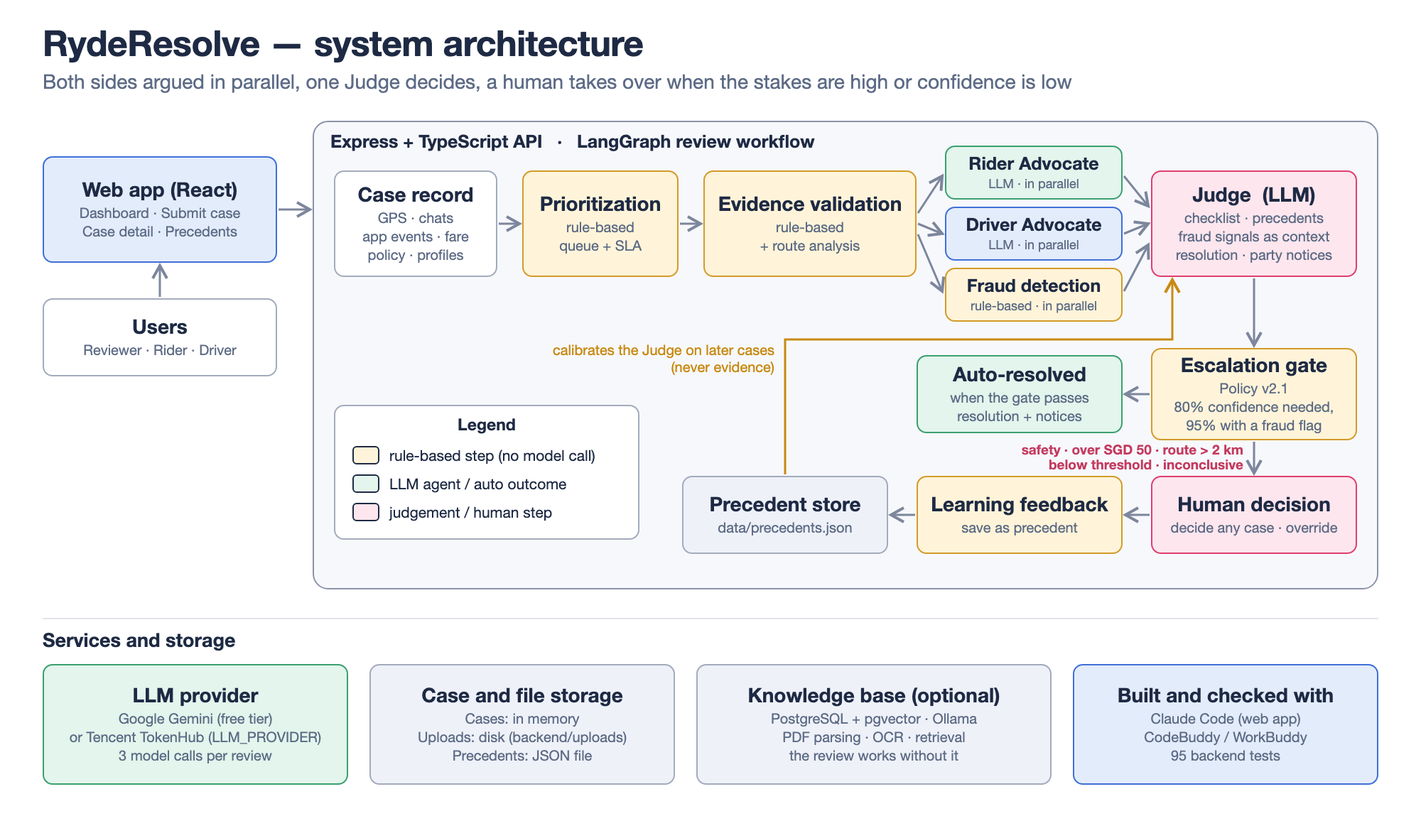
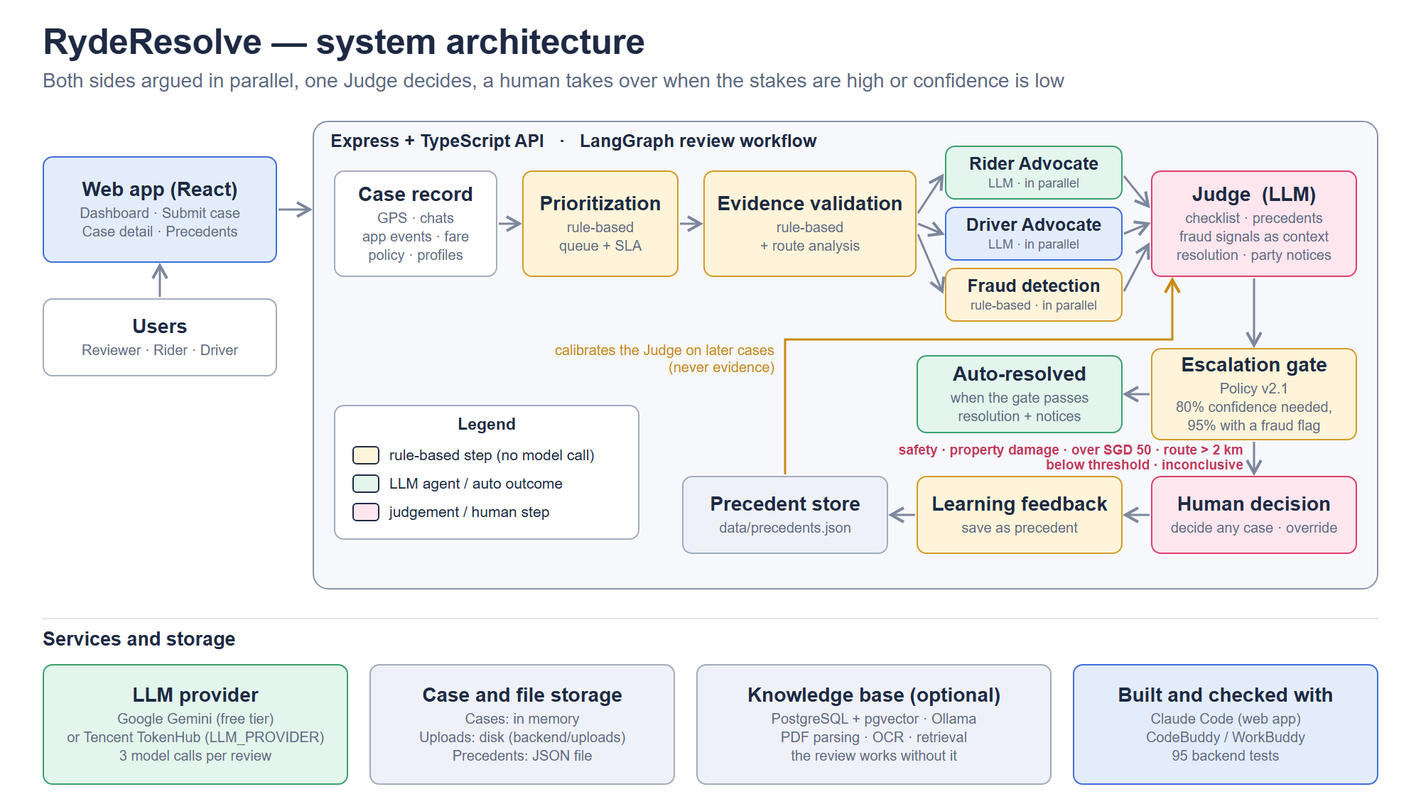
Align report and app with Policy v2.1

diff --git a/dispute-review-agent/frontend/src/App.tsx b/dispute-review-agent/frontend/src/App.tsx
@@ -1,15 +1,26 @@
+import { lazy, Suspense } from 'react';
 import { QueryClient, QueryClientProvider } from '@tanstack/react-query';
 import { BrowserRouter, Route } from 'react-router-dom';
+import { Loader2 } from 'lucide-react';
 import { Toaster } from "@/components/ui/sonner";
 import { TooltipProvider } from "@/components/ui/tooltip";
 import { AnimatedRoutes } from "@/components/AnimatedRoutes";
 import { PageTransition } from "@/components/PageTransition";
 import { Layout } from "@/components/Layout";
-import Dashboard from "./pages/Dashboard";
-import SubmitCase from "./pages/SubmitCase";
-import CaseDetail from "./pages/CaseDetail";
-import Precedents from "./pages/Precedents";
-import NotFound from "./pages/NotFound";
+
+const Dashboard = lazy(() => import('./pages/Dashboard'));
+const SubmitCase = lazy(() => import('./pages/SubmitCase'));
+const CaseDetail = lazy(() => import('./pages/CaseDetail'));
+const Precedents = lazy(() => import('./pages/Precedents'));
+const NotFound = lazy(() => import('./pages/NotFound'));
+
+function PageLoader() {
+  return (
+    <div className="flex min-h-[50vh] items-center justify-center" role="status" aria-label="Loading page">
+      <Loader2 className="h-6 w-6 animate-spin text-primary" />
+    </div>
+  );
+}
 
 const queryClient = new QueryClient({
   defaultOptions: {
@@ -33,14 +44,16 @@ function App() {
         <Toaster />
         <BrowserRouter>
           <Layout>
-            <AnimatedRoutes>
-              <Route path="/" data-genie-title="Dashboard" data-genie-key="Dashboard" element={<PageTransition transition="slide-up"><Dashboard /></PageTransition>} />
-              <Route path="/submit" data-genie-title="Submit case" data-genie-key="Submit" element={<PageTransition transition="slide-up"><SubmitCase /></PageTransition>} />
-              <Route path="/cases/:id" data-genie-title="Case details" data-genie-key="CaseDetail" element={<PageTransition transition="slide-up"><CaseDetail /></PageTransition>} />
-              <Route path="/precedents" data-genie-title="Precedents" data-genie-key="Precedents" element={<PageTransition transition="slide-up"><Precedents /></PageTransition>} />
-              {/* ADD ALL CUSTOM ROUTES ABOVE THE CATCH-ALL "*" ROUTE */}
-              <Route path="*" data-genie-key="NotFound" data-genie-title="Not Found" element={<PageTransition transition="fade"><NotFound /></PageTransition>} />
-            </AnimatedRoutes>
+            <Suspense fallback={<PageLoader />}>
+              <AnimatedRoutes>
+                <Route path="/" data-genie-title="Dashboard" data-genie-key="Dashboard" element={<PageTransition transition="slide-up"><Dashboard /></PageTransition>} />
+                <Route path="/submit" data-genie-title="Submit case" data-genie-key="Submit" element={<PageTransition transition="slide-up"><SubmitCase /></PageTransition>} />
+                <Route path="/cases/:id" data-genie-title="Case details" data-genie-key="CaseDetail" element={<PageTransition transition="slide-up"><CaseDetail /></PageTransition>} />
+                <Route path="/precedents" data-genie-title="Precedents" data-genie-key="Precedents" element={<PageTransition transition="slide-up"><Precedents /></PageTransition>} />
+                {/* ADD ALL CUSTOM ROUTES ABOVE THE CATCH-ALL "*" ROUTE */}
+                <Route path="*" data-genie-key="NotFound" data-genie-title="Not Found" element={<PageTransition transition="fade"><NotFound /></PageTransition>} />
+              </AnimatedRoutes>
+            </Suspense>
           </Layout>
         </BrowserRouter>
       </TooltipProvider>

diff --git a/dispute-review-agent/backend/src/modules/dispute/agents/escalation-agent.ts b/dispute-review-agent/backend/src/modules/dispute/agents/escalation-agent.ts
@@ -7,13 +7,13 @@ import {
 } from './dataset';
 import { RYDE_POLICY_V2_1 } from './policy';
 
-/** Below this Judge confidence, the case must be decided by a human reviewer. */
-export const ESCALATION_THRESHOLD = 60;
+/** Fallback threshold for legacy inputs when no Policy v2.1 case data is available. */
+export const DEFAULT_ESCALATION_THRESHOLD = 60;
 
 export function runEscalationAgent<T extends Pick<JudgeReview, 'mode' | 'recommendation' | 'confidenceScore'>>(
   review: T,
   input?: AgentInput,
-  defaultThreshold = ESCALATION_THRESHOLD
+  defaultThreshold = DEFAULT_ESCALATION_THRESHOLD
 ): EscalationDecision {
   const triggers: string[] = [];
   let threshold = defaultThreshold;
@@ -30,6 +30,9 @@ export function runEscalationAgent<T extends Pick<JudgeReview, 'mode' | 'recomme
 
       if (type === 'safety_accident') {
         triggers.push('Safety incidents always require human review under Policy v2.1 §5.');
+      } else if (type === 'property_damage') {
+        threshold = 100;
+        triggers.push('Disputed property-damage claims always require human review under Policy v2.1 §4.');
       } else if (isLegacyRouteDeviationDataset(input)) {
         const deviationKm = input.trip_data.actual_distance_km - input.recommended_route.distance_km;
         threshold = 80;

diff --git a/dispute-review-agent/backend/src/__tests__/policy-v2.1.test.ts b/dispute-review-agent/backend/src/__tests__/policy-v2.1.test.ts
@@ -10,6 +10,7 @@ import { runEscalationAgent } from '../modules/dispute/agents/escalation-agent';
 import { assessStructuredPolicy, RYDE_POLICY_V2_1 } from '../modules/dispute/agents/policy';
 import { formatCaseContext } from '../modules/dispute/agents/shared';
 import { datasetToCreateDTO } from '../modules/dispute/import-dataset';
+import { disputeStore } from '../modules/dispute/store';
 
 const root = path.resolve(__dirname, '../../../../reference');
 
@@ -86,6 +87,13 @@ test('Policy v2.1 escalation thresholds are applied to the supplied samples', ()
   expect(runEscalationAgent({ ...completedReview, confidenceScore: 94 }, noShow)).toMatchObject({
     needsHuman: true, confidenceThreshold: 95,
   });
+  const propertyDamage = runEscalationAgent(completedReview, {
+    ...disputeStore.getById('case-003')!, type: 'property_damage',
+  });
+  expect(propertyDamage).toMatchObject({ needsHuman: true, confidenceThreshold: 100 });
+  expect(propertyDamage.triggers).toEqual(expect.arrayContaining([
+    expect.stringContaining('property-damage'),
+  ]));
 });
 
 test('the new route and fare samples can be imported into dashboard cases', () => {

diff --git a/report/architecture.html b/report/architecture.html
@@ -107,7 +107,7 @@
     <path d="M1105 668 V478 H1650 V394" stroke="#c88a12" stroke-width="3" fill="none" marker-end="url(#g)"/>
     <text x="1090" y="500" font-size="20" fill="#c88a12" text-anchor="end" font-family="Helvetica Neue, Helvetica, Arial, sans-serif">calibrates the Judge on later cases</text>
     <text x="1090" y="524" font-size="20" fill="#c88a12" text-anchor="end" font-family="Helvetica Neue, Helvetica, Arial, sans-serif">(never evidence)</text>
-    <text x="1750" y="640" font-size="19" font-weight="700" fill="#c43a5f" text-anchor="end" font-family="Helvetica Neue, Helvetica, Arial, sans-serif">safety · over SGD 50 · route &gt; 2 km</text>
+    <text x="1750" y="640" font-size="19" font-weight="700" fill="#c43a5f" text-anchor="end" font-family="Helvetica Neue, Helvetica, Arial, sans-serif">safety · property damage · over SGD 50 · route &gt; 2 km</text>
     <text x="1750" y="661" font-size="19" font-weight="700" fill="#c43a5f" text-anchor="end" font-family="Helvetica Neue, Helvetica, Arial, sans-serif">below threshold · inconclusive</text>
   </svg>
 

diff --git a/dispute-review-agent/backend/src/__tests__/agents.test.ts b/dispute-review-agent/backend/src/__tests__/agents.test.ts
@@ -34,8 +34,8 @@ const advocate = {
     sourceRefs: ['/gps_telemetry/4'],
   }],
   policyArguments: [{
-    argument: 'Compare elapsed wait with eight-minute threshold.',
-    sourceRefs: ['/cancellation_policy/no_show_threshold_min'],
+    argument: 'Compare elapsed wait with the five-minute Policy v2.1 threshold.',
+    sourceRefs: ['/applicable_policy/no_show/free_wait_time_min'],
   }],
   missingEvidence: ['Exact basis for wait start.'],
   requestedOutcome: 'Decide using the supplied policy.', confidenceScore: 60,
@@ -46,7 +46,7 @@ const judge = {
   driverPerspective: 'Driver has arrival records.',
   passengerPerspective: 'Rider disputes arrival.',
   evidenceAnalysis: 'Compare timestamps.',
-  policyReferences: ['Eight-minute no-show threshold'],
+  policyReferences: ['Policy v2.1 five-minute free-wait threshold'],
   recommendation: 'inconclusive',
   recommendationReasoning: 'Wait-start basis needs clarification.',
   suggestedActions: ['No adjustment pending clarification.'],

diff --git a/dispute-review-agent/backend/src/__tests__/fraud.test.ts b/dispute-review-agent/backend/src/__tests__/fraud.test.ts
@@ -36,8 +36,8 @@ const advocate = {
     sourceRefs: ['/gps_telemetry/4'],
   }],
   policyArguments: [{
-    argument: 'Compare elapsed wait with eight-minute threshold.',
-    sourceRefs: ['/cancellation_policy/no_show_threshold_min'],
+    argument: 'Compare elapsed wait with the five-minute Policy v2.1 threshold.',
+    sourceRefs: ['/applicable_policy/no_show/free_wait_time_min'],
   }],
   missingEvidence: ['Exact basis for wait start.'],
   requestedOutcome: 'Decide using the supplied policy.', confidenceScore: 60,
@@ -49,7 +49,7 @@ const judge = {
   driverPerspective: 'Driver has arrival records.',
   passengerPerspective: 'Rider disputes arrival.',
   evidenceAnalysis: 'Compare timestamps.',
-  policyReferences: ['Eight-minute no-show threshold'],
+  policyReferences: ['Policy v2.1 five-minute free-wait threshold'],
   recommendation: 'inconclusive',
   recommendationReasoning: 'Wait-start basis needs clarification.',
   suggestedActions: ['No adjustment pending clarification.'],

diff --git a/dispute-review-agent/frontend/src/components/Layout.tsx b/dispute-review-agent/frontend/src/components/Layout.tsx
@@ -23,9 +23,10 @@ export function Layout({ children }: LayoutProps) {
     <div className="flex h-screen overflow-hidden">
       {/* Sidebar */}
       <aside className="relative isolate overflow-hidden w-14 md:w-52 shrink-0 border-r border-sidebar-border bg-sidebar text-sidebar-foreground flex flex-col">
-        {/* Logo */}
+        {/* Product name only; keep the theme colours without using the Ryde mark. */}
         <div className="px-2 md:px-4 pt-5 pb-4">
-          <img src="/ryde-logo.png" alt="Ryde" className="h-6 md:h-8 w-auto mx-auto md:mx-0 object-contain object-left" />
+          <span className="hidden md:block text-lg font-bold tracking-tight text-primary">RydeResolve</span>
+          <span className="md:hidden block text-center text-lg font-bold text-primary" aria-label="RydeResolve">R</span>
         </div>
 
         {/* Navigation: icon tiles make a short list read as a deliberate menu */}

diff --git a/dispute-review-agent/backend/src/modules/dispute/agents/learning-feedback-agent.ts b/dispute-review-agent/backend/src/modules/dispute/agents/learning-feedback-agent.ts
@@ -22,7 +22,10 @@ function feedbackText(dispute: DisputeCase): string {
   ].join('\n');
 }
 
-/** Stores a reviewed outcome as case-scoped knowledge. This is RAG feedback, not model fine-tuning. */
+/**
+ * Optionally indexes a reviewed outcome for semantic search and audit. The Judge's
+ * active learning loop uses the separate JSON precedent store; neither path fine-tunes a model.
+ */
 export async function runLearningFeedbackAgent(dispute: DisputeCase): Promise<LearningFeedback> {
   const recordedAt = new Date().toISOString();
   if (!dispute.humanOverride) {

diff --git a/dispute-review-agent/backend/src/modules/dispute/agents/checklist.ts b/dispute-review-agent/backend/src/modules/dispute/agents/checklist.ts
@@ -3,8 +3,8 @@ import type { AgentInput } from './contracts';
 
 /**
  * Points the Judge must address, by ID, before ruling. Each answer says what the
- * record shows and whether sources conflict, so known weak spots (such as the
- * DISP-002 wait-start ambiguity) are covered on every review, not by chance.
+ * record shows and whether sources conflict, so known weak spots such as arrival,
+ * location, contact attempts and timestamp inconsistencies are covered every time.
  */
 export interface ChecklistItem {
   id: string;

diff --git a/report/SUBMISSION.md b/report/SUBMISSION.md
@@ -47,7 +47,7 @@ Before ruling, a human reviewer must manually cross-reference GPS telemetry, cha
 2. **Builds both sides of the case in parallel** — the Rider Advocate and Driver Advocate independently gather evidence from the same record and argue their party's position, each citing specific JSON-pointer paths.
 3. **Flags bad-faith risk without prejudging** — a Fraud & Bad-Faith Detection Agent turns account risk flags, dispute history and account age into risk signals that the Judge weighs as context, never as evidence.
 4. **Adjudicates with a mandatory checklist** — the Judge must answer every required checklist item for the dispute type before ruling; a ruling that skips an item is rejected.
-5. **Escalates by the stakes** — under Policy v2.1, safety incidents, disputes over SGD 50 and route deviations over 2 km always go to a human reviewer, with the full agent transcript and checklist. Otherwise the Judge needs 80% confidence (no minimum under SGD 10), or 95% when either party has a fraud flag; an inconclusive ruling also goes to a human.
+5. **Escalates by the stakes** — under Policy v2.1, safety incidents, disputed property-damage claims, disputes over SGD 50 and route deviations over 2 km always go to a human reviewer, with the full agent transcript and checklist. Otherwise the Judge needs 80% confidence (no minimum under SGD 10), or 95% when either party has a fraud flag; an inconclusive ruling also goes to a human.
 6. **Learns from human decisions** — when a reviewer overrides the AI and marks "use as precedent", the decision is saved and shown to the Judge as few-shot calibration examples for future cases of the same type — without model fine-tuning.
 
 ---
@@ -81,9 +81,9 @@ Before ruling, a human reviewer must manually cross-reference GPS telemetry, cha
 - **Driver Advocate** — mirrors the Rider Advocate for the driver's perspective.
 - **Fraud & Bad-Faith Detection Agent** — runs alongside the advocates without a model call. From account risk flags, dispute rate, the share of past disputes decided against each party and account age, it produces risk signals for the Judge. They are context, never evidence: they cannot be cited and must not decide a ruling on their own.
 - **Judge** — weighs both submissions against the original record (advocate arguments are not additional evidence), answers a mandatory checklist, consults up to 3 human precedents of the same dispute type, weighs the fraud risk signals as context, and issues a structured resolution (action, amount, currency, recipient, basis) capped at the disputed charge. Also writes plain-language party notices.
-- **Escalation Agent** — applies Policy v2.1: safety incidents, disputes over SGD 50 and route deviations over 2 km always go to a human reviewer. Otherwise the Judge needs 80% confidence (no minimum under SGD 10), or 95% when either party has a fraud flag. An inconclusive ruling also goes to a human. Everything else auto-resolves.
+- **Escalation Agent** — applies Policy v2.1: safety incidents, disputed property-damage claims, disputes over SGD 50 and route deviations over 2 km always go to a human reviewer. Otherwise the Judge needs 80% confidence (no minimum under SGD 10), or 95% when either party has a fraud flag. An inconclusive ruling also goes to a human. Everything else auto-resolves.
 - **Human Decision** — a reviewer can decide any case at any time, regardless of whether the AI has reviewed it. The decision overrides the AI, and can be revised or withdrawn.
-- **Learning Feedback Agent** — when a human decision is marked "use as precedent", it is saved to the precedent store, and the Judge sees it as a few-shot calibration example for future cases of the same type. The decision is also indexed in the knowledge base for search. No model fine-tuning is involved.
+- **Learning Feedback Agent** — every human override stays on the case and can be indexed in the optional knowledge base for search. When the reviewer also marks it "use as precedent", it is saved to the JSON precedent store and shown to the Judge as a few-shot calibration example. No model fine-tuning is involved.
 
 ### 4.2 Technical Architecture
 
@@ -145,7 +145,7 @@ Advocate Advocate Detection
          │
     ┌────┴──────────────────────┐
     │                           │
- confidence meets the       safety, over SGD 50,
+ confidence meets the       safety, property damage,
  threshold for the stakes   route deviation over 2 km,
  (80%; none under SGD 10;   below the threshold,
  95% with a fraud flag)     or inconclusive
@@ -217,9 +217,9 @@ All claims below are supported by the repository or handbook. No results are inv
 | Manual dispute resolution takes **24–72 hours** per dispute | Handbook V2.0, page 4 |
 | Manual resolution causes **inconsistent rulings** — different agents reach different conclusions on similar cases | Handbook V2.0, page 4 |
 | Manual resolution incurs **high operational costs** — millions spent annually on human support hours | Handbook V2.0, page 4 |
-| **Policy v2.1 escalation rules** govern auto-resolution vs. human review: safety, over SGD 50 and route deviations over 2 km always go to a human; otherwise 80% confidence (none under SGD 10), or 95% with a fraud flag | `escalation-agent.ts`, `policy.ts` |
+| **Policy v2.1 escalation rules** govern auto-resolution vs. human review: safety, disputed property damage, values over SGD 50 and route deviations over 2 km always go to a human; otherwise 80% confidence (none under SGD 10), or 95% with a fraud flag | `escalation-agent.ts`, `policy.ts` |
 | A single AI review makes **3 LLM calls** (Rider Advocate + Driver Advocate + Judge); prioritization, evidence validation, fraud detection and escalation make none | `agents/README.md` and `orchestrator.ts` |
-| The Gemini free tier allows ~20 requests per model per day, so a review takes 15 s – 3 min | `README.md`, Notes section |
+| Each successful AI review makes three model calls; latency and quota depend on the configured Gemini or Tencent TokenHub account | `llm-chat.ts`; `orchestrator.ts` |
 | The Prioritization Agent assigns target response times from **15 min (urgent) to 24 h (low)** without an LLM call | `prioritization-agent.ts`: `responseMinutes` |
 | The Judge consults up to **3 recent same-type precedents** to calibrate its standards | `precedents.ts`: `select()` with `limit = env.PRECEDENT_EXAMPLES` |
 | Resolution amounts are **capped at the disputed charge** (refunds) or 2× (compensation) | `judge.ts`: `disputedAmount()` and `COMPENSATION_CAP_MULTIPLIER` |
@@ -365,7 +365,7 @@ Every point below is implemented in the repository; the source is given in brack
 | Principle | How the system implements it |
 |---|---|
 | **A human can always decide** | A reviewer can decide any case at any time, whether or not the AI has reviewed it. The decision can be revised or withdrawn, takes priority over the AI, and is not overturned by a re-review. [`docs/product/features.md`; `POST/DELETE /api/disputes/:id/override`] |
-| **High stakes and low confidence go to a person** | Under Policy v2.1, safety incidents, disputes over SGD 50 and route deviations over 2 km always go to a human. Otherwise the Judge needs 80% confidence (none under SGD 10), or 95% when a party has a fraud flag; an inconclusive ruling also goes to a human. [`escalation-agent.ts`] |
+| **High stakes and low confidence go to a person** | Under Policy v2.1, safety incidents, disputed property-damage claims, disputes over SGD 50 and route deviations over 2 km always go to a human. Otherwise the Judge needs 80% confidence (none under SGD 10), or 95% when a party has a fraud flag; an inconclusive ruling also goes to a human. [`escalation-agent.ts`] |
 | **Nothing is sent before a human decides** | For escalated cases the plain-language notices to the rider and the driver are shown as drafts ("Draft — held until a human reviewer decides"). After a human decision, the AI's draft is marked "Superseded by the human decision — rewrite before sending". Only notices for cases where the AI ruling stands are marked "Ready to send". [`PartyNoticesCard` in `AgentReview.tsx`] |
 | **No automatic money movement** | A resolution is a recommendation stored on the case. The codebase contains no payment integration. [searched `backend/src`] |
 | **Bounded outcomes** | A refund cannot exceed the disputed charge; compensation is capped at 2× the charge; an inconclusive ruling cannot move money. [`judge.ts`] |
@@ -388,13 +388,13 @@ This is a hackathon prototype. The limits below are stated plainly so that the d
 - **Structured datasets exist for three dispute types.** Route deviation (DISP-003, plus the DISP-001 document), no-show charge (DISP-002, plus ten test fixtures) and fare dispute (the Document 1 sample) have datasets and tests. Property damage and safety accident are in the data model and have Judge checklists, but no sample dataset yet.
 - **Uploaded photos and PDFs are stored and shown, but the agents do not read their contents.** Image analysis is a handbook stretch goal and is not implemented. Uploaded files appear as evidence in the case view only.
 - **The knowledge base is optional.** PostgreSQL with pgvector and Ollama are needed for document parsing, OCR and retrieval. When the knowledge base is offline, the dispute review still works and a human decision stays saved in the case record.
-- **Model quota limits throughput.** The Gemini free tier allows about 20 requests per model per day and one review makes three model calls, so a review takes 15 seconds to about 3 minutes and repeated reviews can hit the limit. The provider can be switched to Tencent TokenHub with `LLM_PROVIDER`.
+- **Provider limits affect throughput.** Each successful review makes three model calls. Latency and quota depend on the configured provider and account, so production capacity must be measured under the intended Gemini or Tencent TokenHub deployment.
 - **Single market.** The sample datasets are Singapore trips in SGD.
 - **Confidence is an assessment, not a calibrated probability.** The escalation thresholds come from Policy v2.1 and should be tuned on real labelled cases.
 
-**Testing.** The backend has 95 automated tests (agents, fraud detection, Policy v2.1, route-deviation analysis, no-show fixtures, knowledge base and system routes), and all pass at the time of writing (15 October 2026).
+**Testing.** The backend has 95 automated tests across 7 suites (agents, fraud detection, Policy v2.1, route-deviation analysis, no-show fixtures, knowledge base and system routes). The backend tests, TypeScript checks, ESLint and frontend production build all pass as of 15 October 2026. Model responses are mocked in the default suite; a labelled live-provider evaluation remains future work.
 
-**Next steps:** authentication and a persistent case store; sample datasets for property damage and safety incidents; image analysis for damage photos; connecting uploaded documents to the knowledge base; and threshold tuning on real cases.
+**Next steps:** authentication, role-based access and a persistent case/audit store; sample datasets for property damage and safety incidents; evidence-content extraction for uploaded photos and PDFs; connecting retrieval results to the review agents with traceable citations; and a labelled evaluation harness for policy outcome, escalation recall, citation accuracy, repeated-run consistency, latency and cost.
 
 ---
 
@@ -405,7 +405,7 @@ This is a hackathon prototype. The limits below are stated plainly so that the d
 | Impact and relevance | Section 3: the Ryde challenge (24–72 h resolution, inconsistent rulings, cost, churn). |
 | Human-centered design | Plain-language notices to both parties; a reviewer interface with a full audit trail; the human-decision flow (Section 8). |
 | AI interaction | Three-stage multi-agent reasoning with a mandatory checklist and structured output (Section 4). |
-| Technical execution | LangGraph workflow, validated citations, bounded resolutions, policy encoded and tested against the source document, 95 passing tests (Sections 4 and 9). |
+| Technical execution | LangGraph workflow, validated citations, bounded resolutions, policy encoded and tested against the source document, and 95 passing tests across 7 suites (Sections 4 and 9). |
 | Feasibility | Runs on a free model tier or Tencent TokenHub; the limits and next steps are stated (Section 9). |
 | Demo and storytelling | Two contrasting cases: a confident ruling that still goes to a human because the stakes are high (DISP-003), and a low-value no-show that resolves automatically only because the Judge clears the stricter bar set by a fraud flag (DISP-002) (Section 6). |
 | Innovation and creativity | Precedent calibration from human decisions; deterministic route analysis so agents cite measured numbers; fraud signals that inform but never decide; no tie-breaker fallback. |

diff --git a/report/FORM_FIELDS.md b/report/FORM_FIELDS.md
@@ -47,7 +47,7 @@ Before ruling, a human reviewer must manually cross-reference GPS telemetry, cha
 2. **Builds both sides of the case in parallel** — the Rider Advocate and Driver Advocate independently gather evidence from the same record and argue their party's position, each citing specific JSON-pointer paths.
 3. **Flags bad-faith risk without prejudging** — a Fraud & Bad-Faith Detection Agent turns account risk flags, dispute history and account age into risk signals that the Judge weighs as context, never as evidence.
 4. **Adjudicates with a mandatory checklist** — the Judge must answer every required checklist item for the dispute type before ruling; a ruling that skips an item is rejected.
-5. **Escalates by the stakes** — under Policy v2.1, safety incidents, disputes over SGD 50 and route deviations over 2 km always go to a human reviewer, with the full agent transcript and checklist. Otherwise the Judge needs 80% confidence (no minimum under SGD 10), or 95% when either party has a fraud flag; an inconclusive ruling also goes to a human.
+5. **Escalates by the stakes** — under Policy v2.1, safety incidents, disputed property-damage claims, disputes over SGD 50 and route deviations over 2 km always go to a human reviewer, with the full agent transcript and checklist. Otherwise the Judge needs 80% confidence (no minimum under SGD 10), or 95% when either party has a fraud flag; an inconclusive ruling also goes to a human.
 6. **Learns from human decisions** — when a reviewer overrides the AI and marks "use as precedent", the decision is saved and shown to the Judge as few-shot calibration examples for future cases of the same type — without model fine-tuning.
 
 
@@ -65,9 +65,9 @@ Before ruling, a human reviewer must manually cross-reference GPS telemetry, cha
 - **Driver Advocate** — mirrors the Rider Advocate for the driver's perspective.
 - **Fraud & Bad-Faith Detection Agent** — runs alongside the advocates without a model call. From account risk flags, dispute rate, the share of past disputes decided against each party and account age, it produces risk signals for the Judge. They are context, never evidence: they cannot be cited and must not decide a ruling on their own.
 - **Judge** — weighs both submissions against the original record (advocate arguments are not additional evidence), answers a mandatory checklist, consults up to 3 human precedents of the same dispute type, weighs the fraud risk signals as context, and issues a structured resolution (action, amount, currency, recipient, basis) capped at the disputed charge. Also writes plain-language party notices.
-- **Escalation Agent** — applies Policy v2.1: safety incidents, disputes over SGD 50 and route deviations over 2 km always go to a human reviewer. Otherwise the Judge needs 80% confidence (no minimum under SGD 10), or 95% when either party has a fraud flag. An inconclusive ruling also goes to a human. Everything else auto-resolves.
+- **Escalation Agent** — applies Policy v2.1: safety incidents, disputed property-damage claims, disputes over SGD 50 and route deviations over 2 km always go to a human reviewer. Otherwise the Judge needs 80% confidence (no minimum under SGD 10), or 95% when either party has a fraud flag. An inconclusive ruling also goes to a human. Everything else auto-resolves.
 - **Human Decision** — a reviewer can decide any case at any time, regardless of whether the AI has reviewed it. The decision overrides the AI, and can be revised or withdrawn.
-- **Learning Feedback Agent** — when a human decision is marked "use as precedent", it is saved to the precedent store, and the Judge sees it as a few-shot calibration example for future cases of the same type. The decision is also indexed in the knowledge base for search. No model fine-tuning is involved.
+- **Learning Feedback Agent** — every human override stays on the case and can be indexed in the optional knowledge base for search. When the reviewer also marks it "use as precedent", it is saved to the JSON precedent store and shown to the Judge as a few-shot calibration example. No model fine-tuning is involved.
 
 ### 4.2 Technical Architecture
 
@@ -146,9 +146,9 @@ All claims below are supported by the repository or handbook. No results are inv
 | Manual dispute resolution takes **24–72 hours** per dispute | Handbook V2.0, page 4 |
 | Manual resolution causes **inconsistent rulings** — different agents reach different conclusions on similar cases | Handbook V2.0, page 4 |
 | Manual resolution incurs **high operational costs** — millions spent annually on human support hours | Handbook V2.0, page 4 |
-| **Policy v2.1 escalation rules** govern auto-resolution vs. human review: safety, over SGD 50 and route deviations over 2 km always go to a human; otherwise 80% confidence (none under SGD 10), or 95% with a fraud flag | `escalation-agent.ts`, `policy.ts` |
+| **Policy v2.1 escalation rules** govern auto-resolution vs. human review: safety, disputed property damage, values over SGD 50 and route deviations over 2 km always go to a human; otherwise 80% confidence (none under SGD 10), or 95% with a fraud flag | `escalation-agent.ts`, `policy.ts` |
 | A single AI review makes **3 LLM calls** (Rider Advocate + Driver Advocate + Judge); prioritization, evidence validation, fraud detection and escalation make none | `agents/README.md` and `orchestrator.ts` |
-| The Gemini free tier allows ~20 requests per model per day, so a review takes 15 s – 3 min | `README.md`, Notes section |
+| Each successful AI review makes three model calls; latency and quota depend on the configured Gemini or Tencent TokenHub account | `llm-chat.ts`; `orchestrator.ts` |
 | The Prioritization Agent assigns target response times from **15 min (urgent) to 24 h (low)** without an LLM call | `prioritization-agent.ts`: `responseMinutes` |
 | The Judge consults up to **3 recent same-type precedents** to calibrate its standards | `precedents.ts`: `select()` with `limit = env.PRECEDENT_EXAMPLES` |
 | Resolution amounts are **capped at the disputed charge** (refunds) or 2× (compensation) | `judge.ts`: `disputedAmount()` and `COMPENSATION_CAP_MULTIPLIER` |

diff --git a/dispute-review-agent/README.md b/dispute-review-agent/README.md
@@ -130,7 +130,7 @@ flowchart TD
     JV -- yes --> ESC
 
     subgraph escalation["Confidence-based escalation"]
-        ESC["Escalation agent (Policy v2.1)<br/>always human: safety, over SGD 50,<br/>route deviation over 2 km<br/>confidence needed: 80% (none under SGD 10),<br/>95% with a fraud flag"]
+        ESC["Escalation agent (Policy v2.1)<br/>always human: safety, property damage,<br/>over SGD 50, route deviation over 2 km<br/>confidence needed: 80% (none under SGD 10),<br/>95% with a fraud flag"]
         ESC --> ECHK{"needs human?"}
     end
 
@@ -169,8 +169,8 @@ is never shown its own earlier decision. The **Precedents** page lists them, and
 using it.
 
 **The Judge must answer a checklist** before ruling: the known weak spots for each dispute type (for
-no-shows: arrival vs scheduled time, wait start under each basis, elapsed wait vs threshold, contact
-attempts, rider location) plus statement-vs-record and timestamp conflicts. A ruling that skips an
+no-shows: arrival against scheduled time, the five-minute wait, both required contact attempts,
+booked pickup location and fixed fee) plus statement-vs-record and timestamp conflicts. A ruling that skips an
 item is rejected; each answer is shown with its citations and a conflict flag. Imported datasets are reviewed on
 the original JSON, so evidence added to such a case after import is not used. Agent inputs, outputs
 and failure rules: [`backend/src/modules/dispute/agents/README.md`](backend/src/modules/dispute/agents/README.md).
@@ -191,8 +191,8 @@ stateDiagram-v2
     resolved --> pending: human decision withdrawn (no AI review)
 ```
 
-**Escalation rules (Policy v2.1, `agents/escalation-agent.ts`).** Safety incidents, disputes over
-SGD 50 and route deviations over 2 km always go to a human. Otherwise the Judge must reach 80%
+**Escalation rules (Policy v2.1, `agents/escalation-agent.ts`).** Safety incidents, disputed
+property-damage claims, disputes over SGD 50 and route deviations over 2 km always go to a human. Otherwise the Judge must reach 80%
 confidence (no minimum for disputes under SGD 10), or 95% when either party has a fraud flag. An
 inconclusive ruling also goes to a human. So the DISP-003 sample (a 7.8 km deviation) is always
 escalated, however confident the Judge is.
